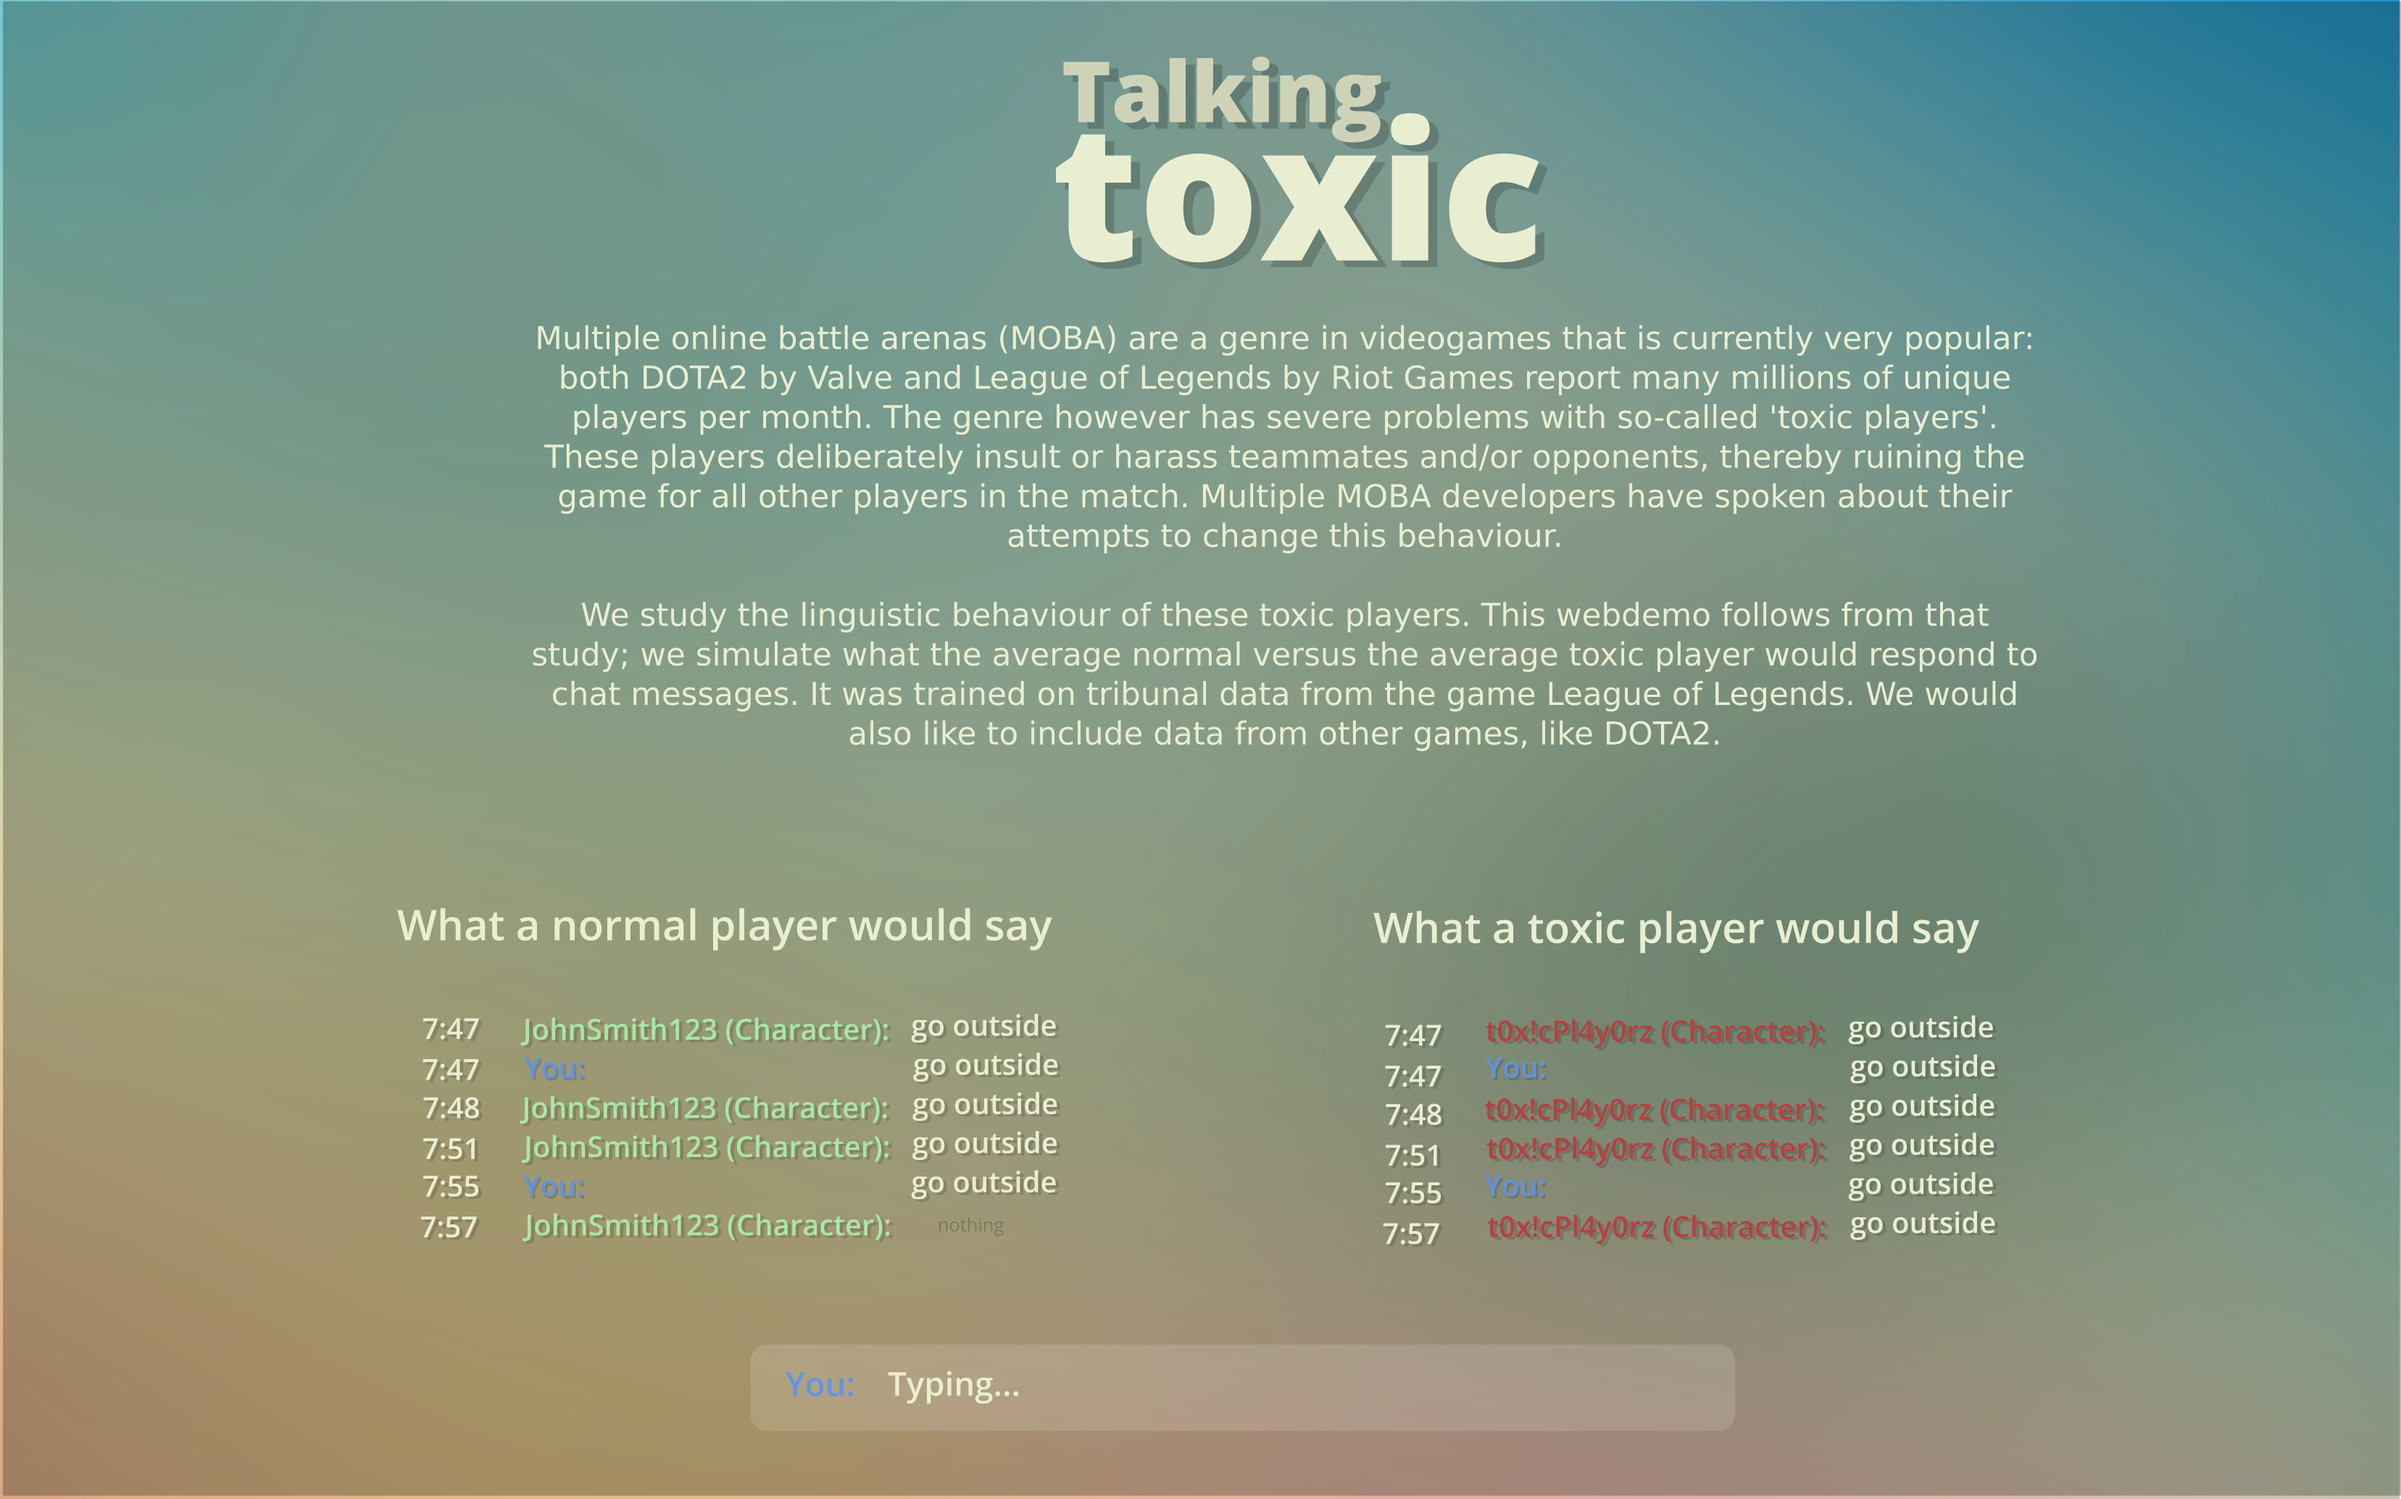
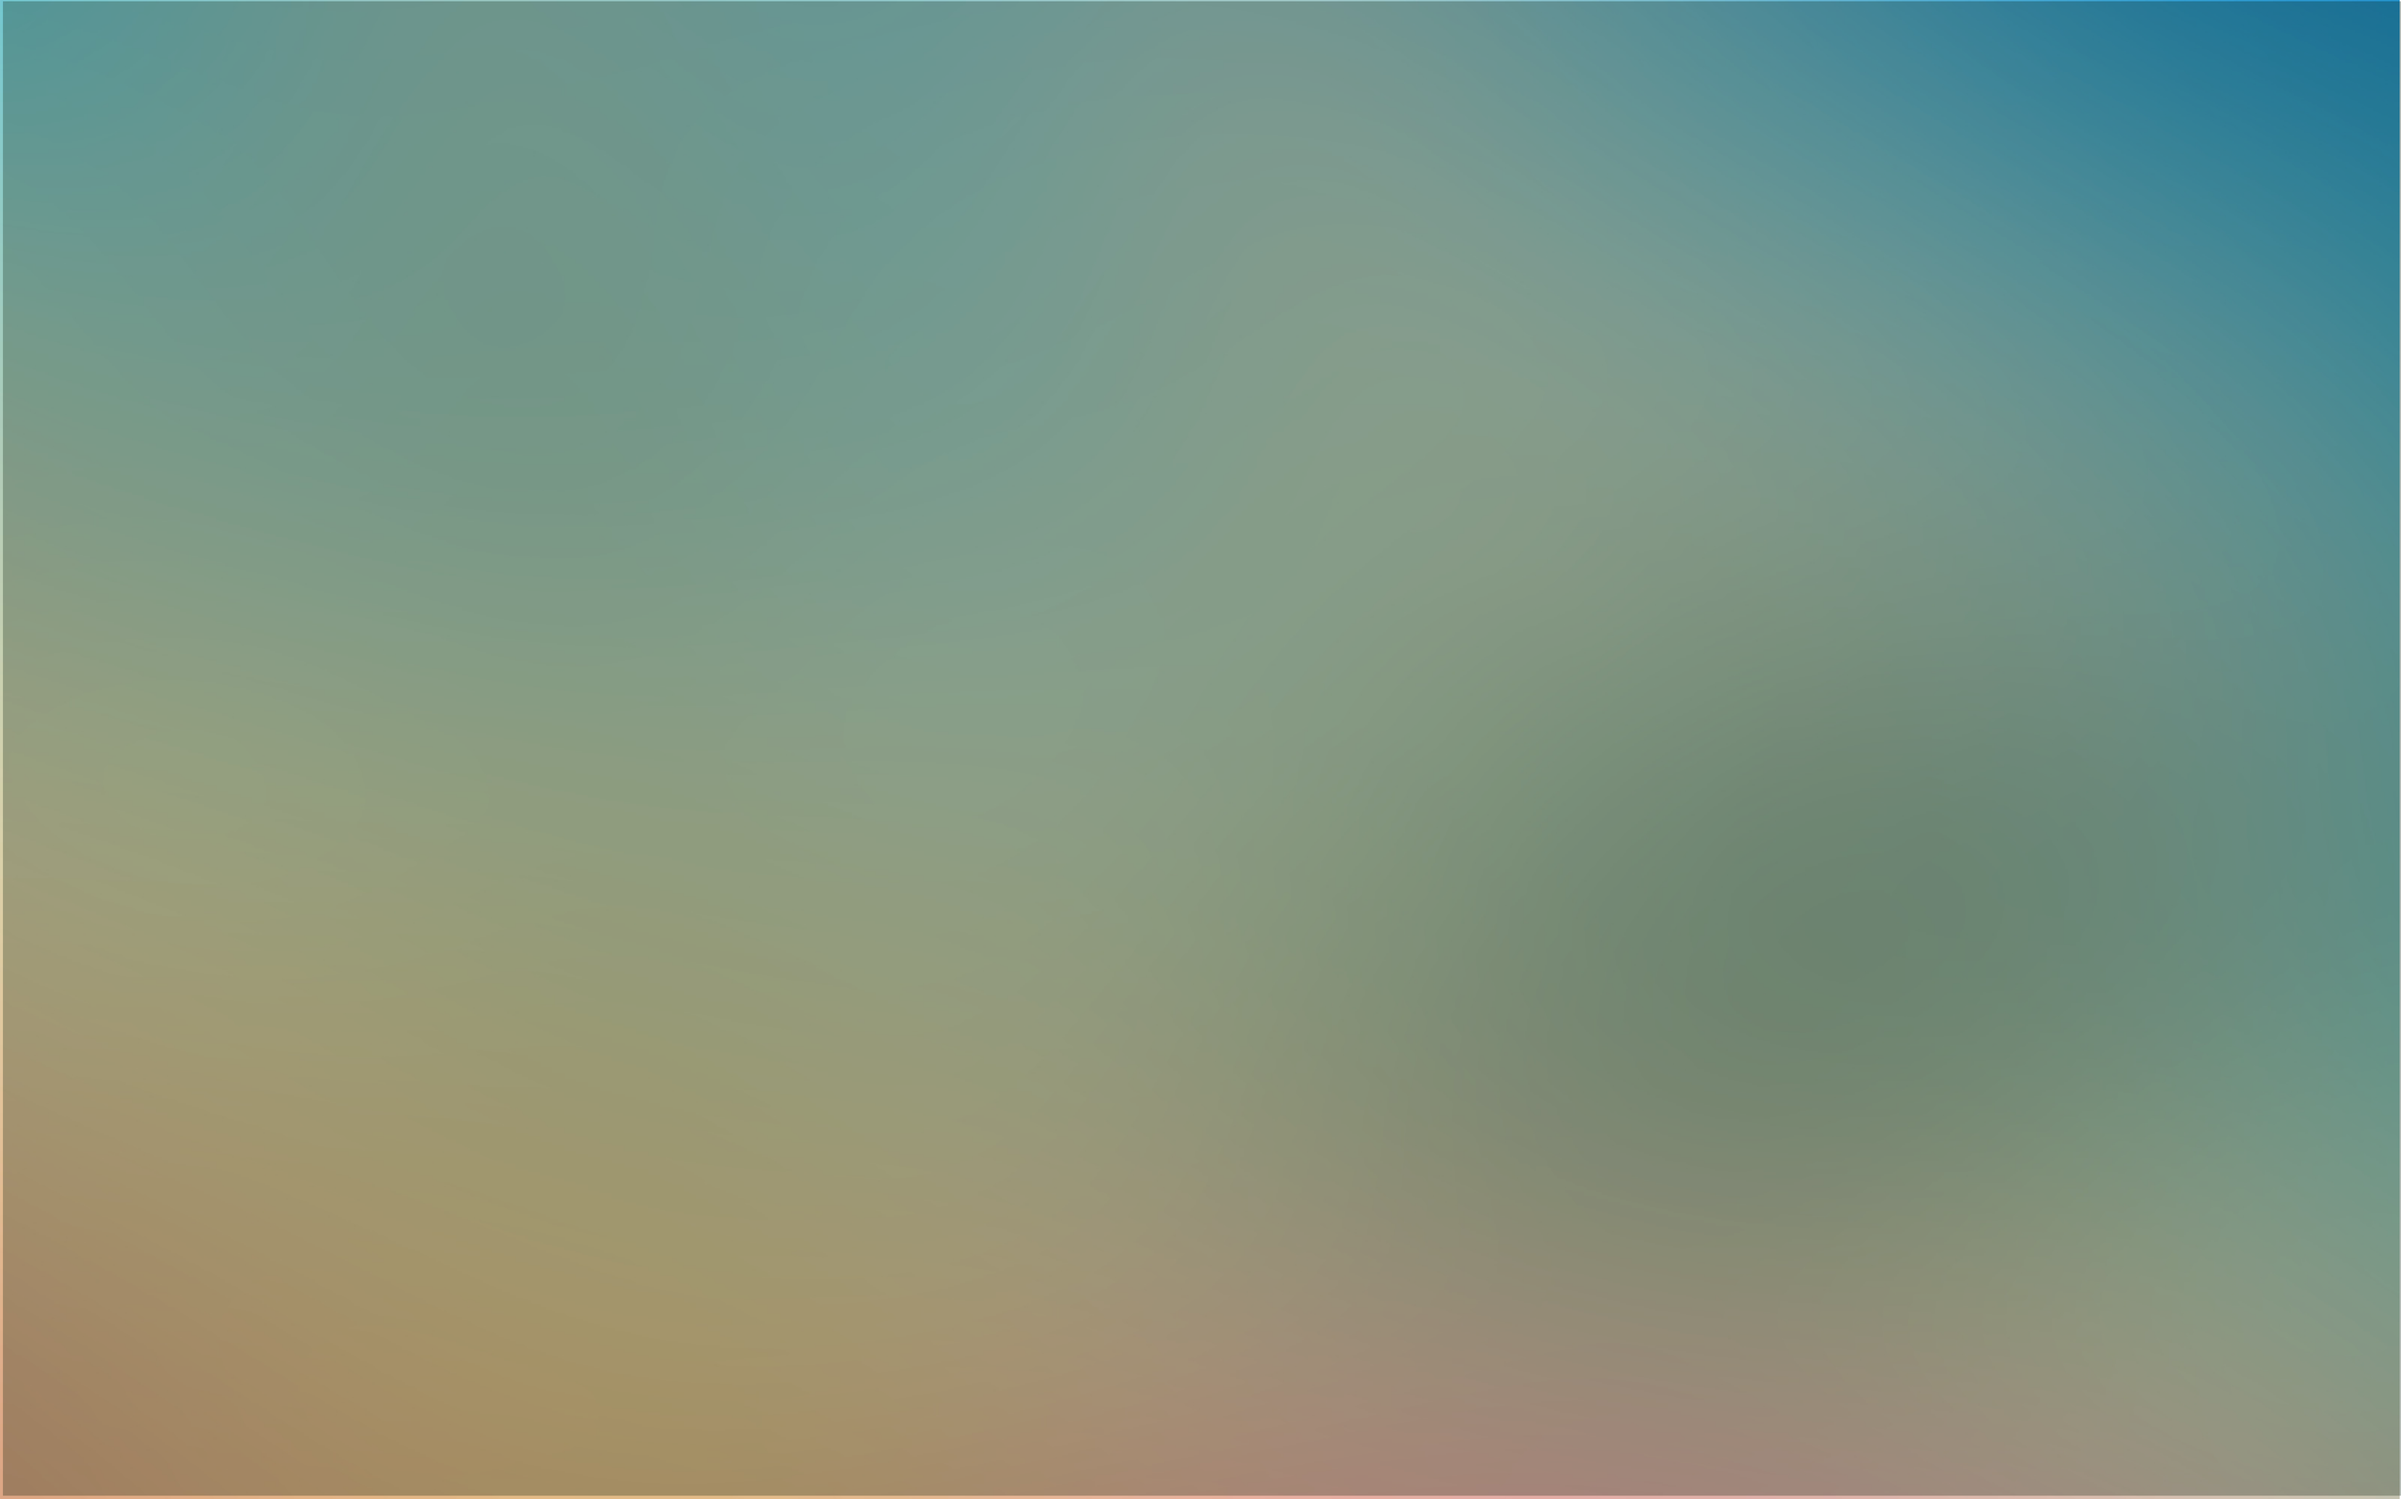
Styled demo

diff --git a/webdemo/style.css b/webdemo/style.css
@@ -1,0 +1,20 @@
+body
+{
+    background: url('blurry_background.png') 100% 100%;
+    background-size: cover;
+    font-family: 'Open Sans', sans-serif;
+    color: #e9eed1;
+}
+
+h1
+{
+    font-size: 80px;
+    text-align: center;
+}
+
+.main_description
+{
+    text-align: center;
+    width: 1000px;
+    margin: auto;
+}
